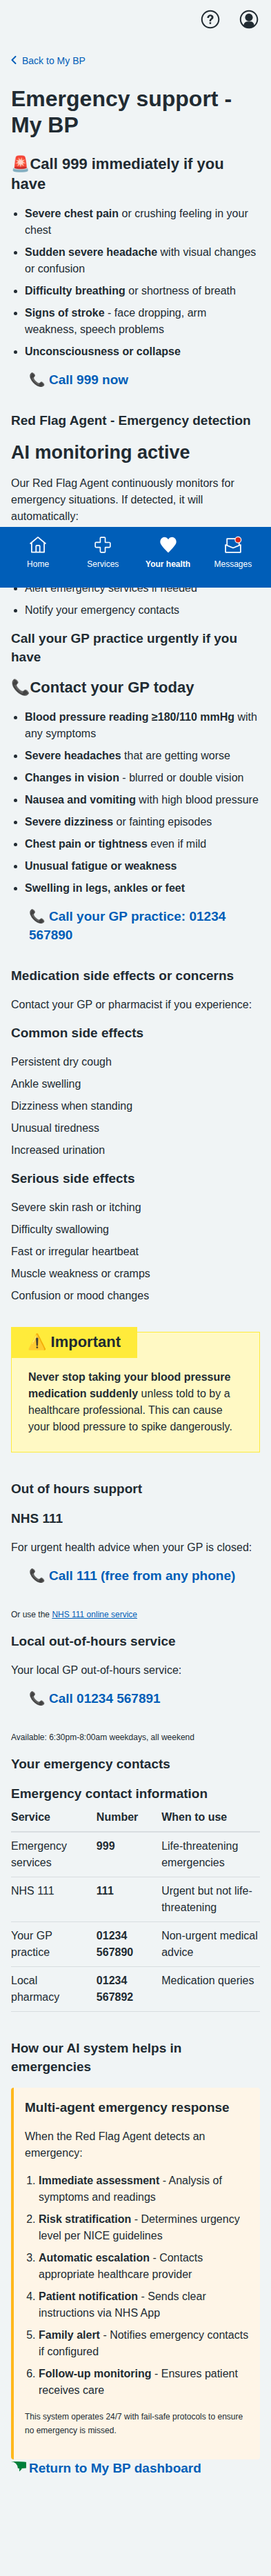
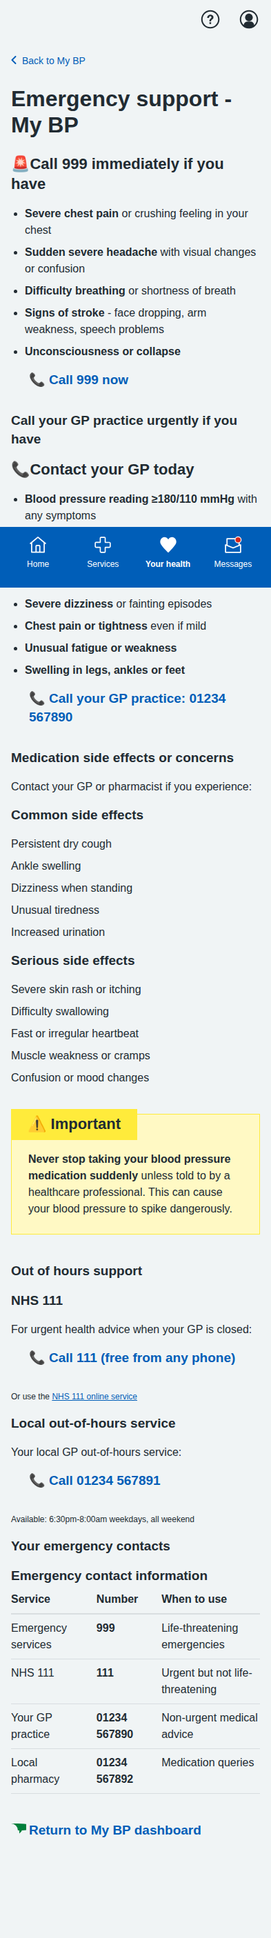
Refine emergency support, GP dashboard, and lab results based on clinical feedback

diff --git a/prototype/v1/app/views/pages/mybp/gp-dashboard.html b/prototype/v1/app/views/pages/mybp/gp-dashboard.html
@@ -1,11 +1,11 @@
 {% extends 'layout-app.html' %}
 
 {% set hub = "Professional tools" %}
-{% set pageHeading = "GP Practice Analytics Dashboard - My BP" %}
+{% set pageHeading = "GP Practice Analytics Dashboard" %}
 
 {% block beforeContent %}
   {{ backLink({
-    text: "Back to My BP",
+    text: "Back to main system",
     href: "/pages/mybp/index"
   }) }}
 {% endblock %}
@@ -20,8 +20,19 @@
       })}}
 
       <p class="nhsuk-lede-text">
-        Comprehensive hypertension management overview with health inequality monitoring.
+        Practice-level hypertension management analytics with health inequality monitoring.
       </p>
+
+      <div class="nhsuk-notification-banner" role="region" aria-labelledby="desktop-banner-title">
+        <div class="nhsuk-notification-banner__header">
+          <h2 class="nhsuk-notification-banner__title" id="desktop-banner-title">
+            Professional desktop interface
+          </h2>
+        </div>
+        <div class="nhsuk-notification-banner__content">
+          <p>This dashboard is designed for healthcare professionals and would be accessed via desktop browser, not through the patient-facing NHS App.</p>
+        </div>
+      </div>
 
       <!-- SECTION - PRACTICE OVERVIEW -->
       {{ nhsappSectionHeading({
@@ -47,7 +58,7 @@
           <div style="background: #005eb8; color: white; padding: 20px; border-radius: 8px; text-align: center;">
             <h3 class="nhsuk-u-margin-bottom-2" style="color: white;">1,247</h3>
             <p class="nhsuk-u-margin-bottom-0" style="color: white;">Active hypertension patients</p>
-            <p class="nhsuk-u-font-size-14 nhsuk-u-margin-bottom-0" style="color: white;">My BP managed: 389</p>
+            <p class="nhsuk-u-font-size-14 nhsuk-u-margin-bottom-0" style="color: white;">Digital platform: 389</p>
           </div>
         </div>
       </div>
@@ -146,38 +157,6 @@
         </div>
       </div>
 
-      <!-- SECTION - PATIENT CATEGORIES -->
-      {{ nhsappSectionHeading({
-        headingText: "Patient category distribution"
-      }) }}
-      
-      <div class="nhsuk-grid-row">
-        <div class="nhsuk-grid-column-one-third">
-          <div style="background: #e8f4fd; border-left: 4px solid #005eb8; padding: 16px; border-radius: 4px;">
-            <h4>Category A: Known Hypertension</h4>
-            <p><strong>289 patients</strong></p>
-            <p class="nhsuk-u-font-size-14">Treatment management phase</p>
-            <p class="nhsuk-u-font-size-14">74% achieving BP targets</p>
-          </div>
-        </div>
-        <div class="nhsuk-grid-column-one-third">
-          <div style="background: #f0f4f5; border-left: 4px solid #768692; padding: 16px; border-radius: 4px;">
-            <h4>Category B: Surveillance</h4>
-            <p><strong>167 patients</strong></p>
-            <p class="nhsuk-u-font-size-14">Normotensive monitoring</p>
-            <p class="nhsuk-u-font-size-14">95% attendance rate</p>
-          </div>
-        </div>
-        <div class="nhsuk-grid-column-one-third">
-          <div style="background: #fef5e7; border-left: 4px solid #ffb81c; padding: 16px; border-radius: 4px;">
-            <h4>Category C: New Diagnosis</h4>
-            <p><strong>43 patients</strong></p>
-            <p class="nhsuk-u-font-size-14">Diagnostic pathway</p>
-            <p class="nhsuk-u-font-size-14">Avg 4.2 weeks to diagnosis</p>
-          </div>
-        </div>
-      </div>
-
       <!-- SECTION - WORKLOAD REDUCTION -->
       {{ nhsappSectionHeading({
         headingText: "Practice workload impact"
@@ -249,7 +228,7 @@
             <path d="m0 0h24v24h-24z" fill="none"/>
             <path d="m12 2a10 10 0 1 0 10 10 10.011 10.011 0 0 0 -10-10zm5.293 11.293-3.293 3.293v-8.586l3.293 3.293a1 1 0 0 1 0 1.414z"/>
           </svg>
-          <span class="nhsuk-action-link__text">Return to patient view</span>
+          <span class="nhsuk-action-link__text">Return to main system</span>
         </a>
       </div>
 

diff --git a/prototype/v1/app/views/pages/mybp/emergency.html b/prototype/v1/app/views/pages/mybp/emergency.html
@@ -41,28 +41,6 @@
         </div>
       </div>
 
-      <!-- SECTION - RED FLAG DETECTION -->
-      {{ nhsappSectionHeading({
-        headingText: "Red Flag Agent - Emergency detection"
-      }) }}
-      
-      <div class="nhsuk-notification-banner" role="region" aria-labelledby="red-flag-banner-title">
-        <div class="nhsuk-notification-banner__header">
-          <h2 class="nhsuk-notification-banner__title" id="red-flag-banner-title">
-            AI monitoring active
-          </h2>
-        </div>
-        <div class="nhsuk-notification-banner__content">
-          <p>Our Red Flag Agent continuously monitors for emergency situations. If detected, it will automatically:</p>
-          <ul>
-            <li>Contact your GP practice immediately</li>
-            <li>Arrange urgent appointments</li>
-            <li>Alert emergency services if needed</li>
-            <li>Notify your emergency contacts</li>
-          </ul>
-        </div>
-      </div>
-
       <!-- SECTION - URGENT SITUATIONS -->
       {{ nhsappSectionHeading({
         headingText: "Call your GP practice urgently if you have"
@@ -196,25 +174,6 @@
           </tr>
         </tbody>
       </table>
-
-      <!-- SECTION - AI ESCALATION -->
-      {{ nhsappSectionHeading({
-        headingText: "How our AI system helps in emergencies"
-      }) }}
-      
-      <div style="background: #fef5e7; border-left: 4px solid #ffb81c; padding: 16px; border-radius: 4px;">
-        <h4>Multi-agent emergency response</h4>
-        <p>When the Red Flag Agent detects an emergency:</p>
-        <ol class="nhsuk-list nhsuk-list--number">
-          <li><strong>Immediate assessment</strong> - Analysis of symptoms and readings</li>
-          <li><strong>Risk stratification</strong> - Determines urgency level per NICE guidelines</li>
-          <li><strong>Automatic escalation</strong> - Contacts appropriate healthcare provider</li>
-          <li><strong>Patient notification</strong> - Sends clear instructions via NHS App</li>
-          <li><strong>Family alert</strong> - Notifies emergency contacts if configured</li>
-          <li><strong>Follow-up monitoring</strong> - Ensures patient receives care</li>
-        </ol>
-        <p class="nhsuk-u-font-size-14">This system operates 24/7 with fail-safe protocols to ensure no emergency is missed.</p>
-      </div>
 
       <div class="nhsuk-action-link">
         <a class="nhsuk-action-link__link" href="/pages/mybp/index">

diff --git a/prototype/v1/app/views/pages/mybp/blood-test/results-abnormal.html b/prototype/v1/app/views/pages/mybp/blood-test/results-abnormal.html
@@ -239,20 +239,31 @@
           </h3>
         </div>
         <div class="nhsuk-care-card__content">
-          <p><strong>Your GP will contact you within 2 working days to discuss these results.</strong></p>
+          <p><strong>Your GP will contact you by the end of tomorrow to discuss these results.</strong></p>
+          
+          <h4>What you must do:</h4>
           <ul>
-            <li><strong>Do not stop your medication</strong> unless told to by a healthcare professional</li>
-            <li><strong>Urgent repeat test due:</strong> 29 November 2024 (2 weeks)</li>
-            <li><strong>High potassium alert:</strong> This level may affect your heart rhythm</li>
-            <li><strong>Kidney function changes:</strong> Your medication may need adjusting</li>
+            <li><strong>Continue taking your medication</strong> - do not stop unless told to by your GP</li>
+            <li><strong>Stay near your phone</strong> - your GP will call you</li>
+            <li><strong>Book urgent repeat test</strong> - due 29 November 2024</li>
           </ul>
-          <p><strong>Call your GP practice immediately if you experience:</strong></p>
+
+          <h4>Contact your GP practice immediately if you experience:</h4>
           <ul>
             <li>Chest pain or irregular heartbeat</li>
             <li>Severe weakness or muscle cramps</li>
             <li>Nausea or vomiting</li>
             <li>Difficulty breathing</li>
           </ul>
+
+          <div class="nhsuk-warning-callout">
+            <h3 class="nhsuk-warning-callout__label">
+              <span role="img" aria-label="Warning">⚠</span>
+              If your GP hasn't contacted you by 5pm tomorrow
+            </h3>
+            <p><strong>Call your GP practice directly on 01234 567890</strong><br>
+            If they're closed, call NHS 111 for advice about your results.</p>
+          </div>
         </div>
       </div>
 

diff --git a/prototype/v1/screenshots/screenshots.md b/prototype/v1/screenshots/screenshots.md
@@ -97,9 +97,17 @@ Complete collection of iPhone-formatted screenshots (393x852 pixels) for all scr
 ![Normal Lab Results](lab-results-normal.png)
 **Normal U&E Test Results** - Comprehensive display of normal blood test results with color-coded status indicators, baseline comparisons, clinical explanations, and reassuring "Good news" messaging. Shows all five key parameters (Creatinine, eGFR, Sodium, Potassium, Urea) with reference ranges and trend analysis.
 
-### 2. Abnormal Lab Results with Clinical Alerts
+### 2. Abnormal Lab Results with Simplified Clinical Actions
 ![Abnormal Lab Results](lab-results-abnormal.png)
-**Abnormal U&E Test Results with Urgent Alerts** - Critical results display featuring prominent "Important" alert banner, elevated creatinine and potassium levels with clear clinical warnings, urgent action needed section, and specific guidance on when to contact healthcare providers immediately.
+**Abnormal U&E Test Results with Simplified Urgent Actions** - Critical results display featuring:
+- Prominent "Important" alert banner with clear abnormal results notification
+- Elevated creatinine (135 μmol/L) and potassium (5.8 mmol/L) with color-coded visual indicators
+- Simplified "Urgent action needed" section with clear patient instructions:
+  - GP contact within 24 hours (by end of tomorrow)
+  - Clear fail-safe mechanism if GP hasn't contacted by 5pm tomorrow
+  - Specific symptoms requiring immediate GP practice contact
+- Separation of clinical explanation from actionable patient instructions
+- Clinically appropriate timeframes aligned with NICE/BNF guidelines for moderate potassium elevation
 
 ---
 
@@ -107,13 +115,13 @@ Complete collection of iPhone-formatted screenshots (393x852 pixels) for all scr
 
 ### 1. GP Practice Analytics Dashboard
 ![GP Practice Analytics Dashboard](gp-analytics-dashboard.png)
-**GP Practice Analytics Dashboard** - Comprehensive healthcare professional interface demonstrating:
-- Practice-wide NICE guidelines adherence monitoring (78% compliance rate)
+**GP Practice Analytics Dashboard** - Professional desktop interface for healthcare providers (not patient-facing) featuring:
+- Practice-wide NICE guidelines adherence monitoring (78% compliance rate vs 85% target)
 - Health inequality tracking across demographic groups (IMD quintiles, ethnicity, age, digital exclusion)
-- Multi-agent system performance metrics with 99.2% uptime
-- Patient category distribution (A: Known Hypertension, B: Surveillance, C: New Diagnosis)
-- Practice workload impact analysis showing 41 hours/week time savings
-- EHR integration status for EMIS Web, TPP SystmOne, and NHS App
+- Multi-agent system performance metrics with 99.2% uptime and 100% Red Flag response rate
+- Practice workload impact analysis showing 41 hours/week time savings (equivalent to 1 FTE clinician)
+- EHR integration status for EMIS Web, TPP SystmOne, QOF Reporting, and NHS App
+- Clear indication this is a professional desktop tool, not part of the patient-facing NHS App
 
 ### 2. Accessibility Hub (Redesigned)
 ![Accessibility Hub](accessibility-hub.png)
@@ -148,16 +156,17 @@ Complete collection of iPhone-formatted screenshots (393x852 pixels) for all scr
 - Digital inclusion support with face-to-face care options
 - Screen reader compatibility (NVDA, JAWS, VoiceOver, TalkBack)
 
-### 3. Emergency Support System
+### 3. Emergency Support System (Patient-Focused)
 ![Emergency Support](emergency-support.png)
-**Emergency Support** - Red Flag Agent emergency detection and response system:
-- Immediate 999 escalation protocols for life-threatening symptoms
-- GP practice urgent contact procedures for high BP readings ≥180/110 mmHg
-- Medication side effects monitoring and guidance
-- Multi-agent emergency response workflow with automatic escalation
-- Out-of-hours support through NHS 111 and local services
-- Comprehensive emergency contact information
-- 24/7 AI monitoring with fail-safe protocols
+**Emergency Support** - Streamlined patient-focused emergency guidance system:
+- Clear 999 emergency contact instructions for life-threatening symptoms
+- GP practice urgent contact procedures for high BP readings ≥180/110 mmHg with symptoms
+- Medication side effects monitoring with common and serious side effect lists
+- Out-of-hours support through NHS 111 and local GP services
+- Comprehensive emergency contact table with appropriate use guidance
+- Patient-centered approach with clear actions rather than AI system promises
+- Removal of unrealistic "AI monitoring active" sections based on clinical feedback
+- Focus on patient responsibility and clear escalation pathways per NICE guidelines
 
 ---
 
